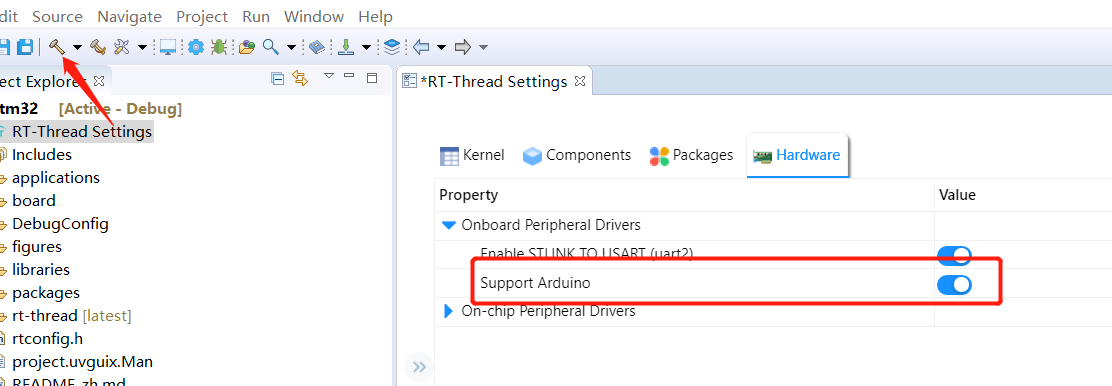
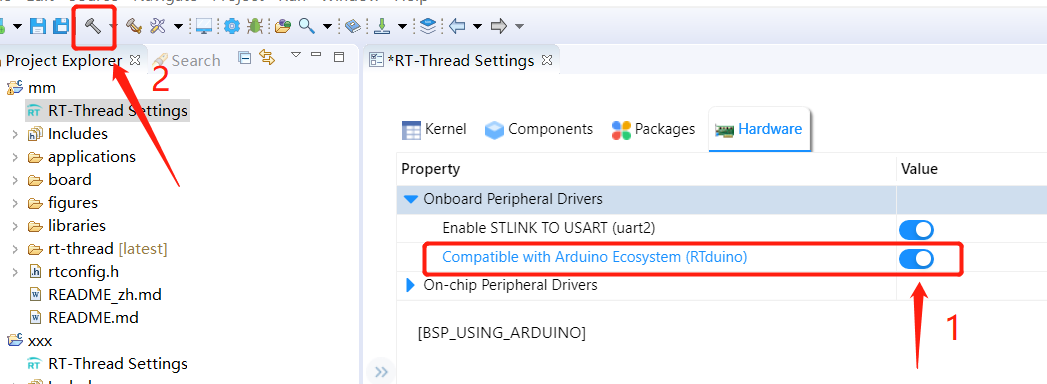
update readme

Changed region(s): [[0.0, 0.0, 1.0, 1.0], [0.1528, 0.4062, 0.1834, 0.4688]]

diff --git a/README.md b/README.md
@@ -72,7 +72,7 @@ We will use [STM32F103 BluePill BSP](https://github.com/RT-Thread/rt-thread/tree
 
 ![2.2-6](docs/figures/2.2-6.png)
 
-- Click `Hardware`, and select `Support Arduino`. Then, click the "hammer" button to compile the project. RT-Thread Studio will automatically download the RTduino and other dependency software packages and compile the whole project.
+- Click `Hardware`, and select `Compatible with Arduino Ecosystem (RTduino)`. Then, click the "hammer" button to compile the project. RT-Thread Studio will automatically download the RTduino and other dependency software packages and compile the whole project.
 
 ![2.2-7](docs/figures/2.2-7.png)
 
@@ -144,7 +144,7 @@ In RT-Thread software center, there is a specific category for Arduino. RTduino 
 
 The following example will show how to enable Arduino Adafruit AHTx0 sensor driver library with a few clicks:
 
-- Please follow the previous chapter to import a project into RT-Thread Studio and select `Support Arduino` in RT-Thread Settings.
+- Please follow the previous chapter to import a project into RT-Thread Studio and select `Compatible with Arduino Ecosystem (RTduino)` in RT-Thread Settings.
 
 - Please to go `Software` column, and select `Arduino libraries` category, and extend `Sensors` sub-category of Arduino library. Then, select and enable the Adafruit AHTx0 Arduino driver library. RT-Thread Studio will help you to enable other dependency libraries, such as Adafruit Unified Sensor library, Adafruit BusIO library and so on.
 
